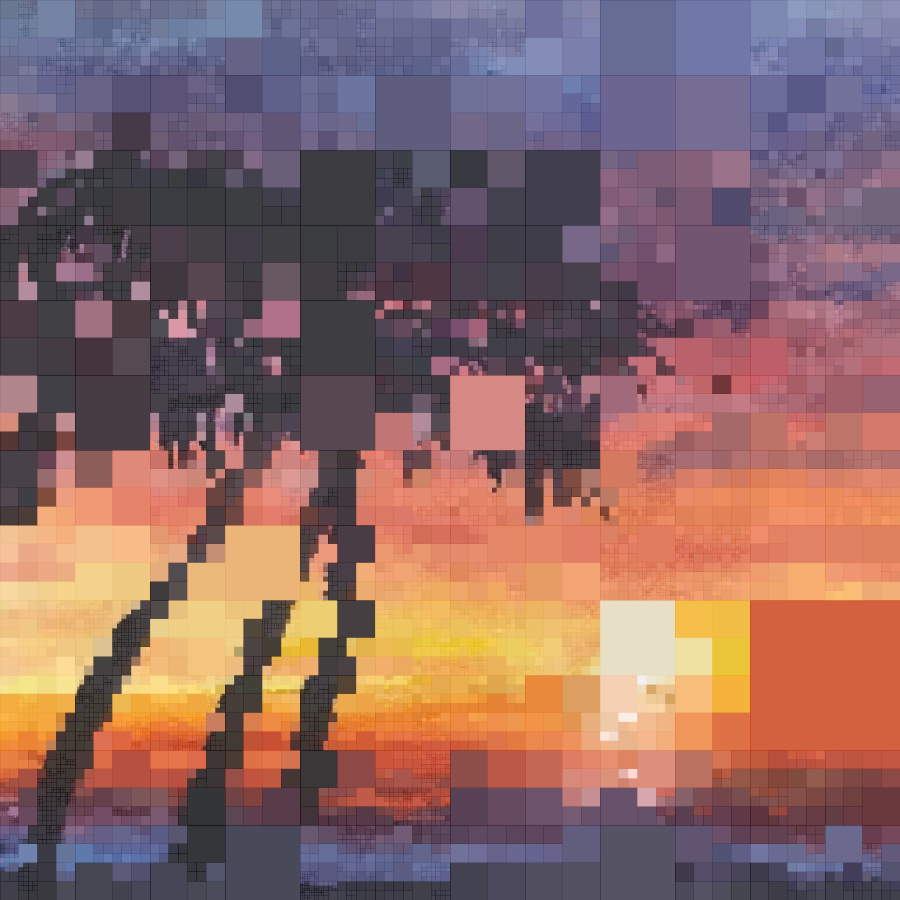
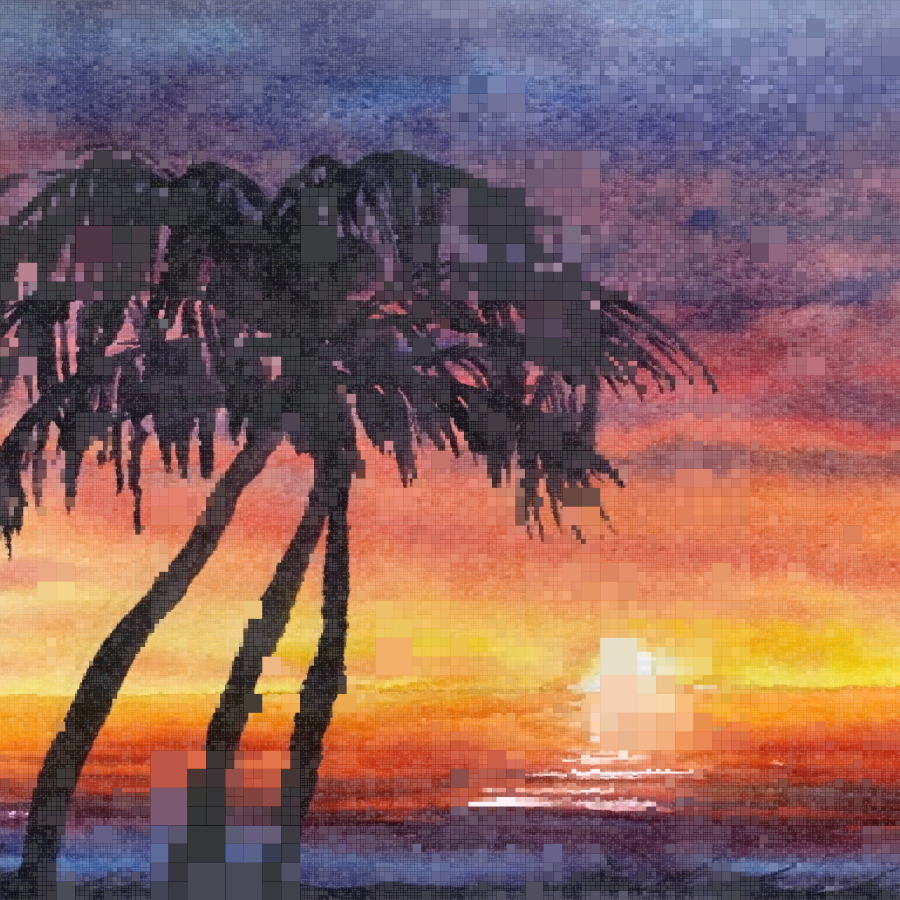
Tweak part 3 of the grid gen-art tutorial.

diff --git a/tutorials/generative-art-grid-part3.md b/tutorials/generative-art-grid-part3.md
@@ -104,8 +104,8 @@ setup {
             blocks.append(block)
         }
     }
-    repeat(7) {
-        blocks = splitSomeBlocks(blocks, 0.5)
+    repeat(9) {
+        blocks = splitSomeBlocks(blocks, 0.7)
     }
 }
 
